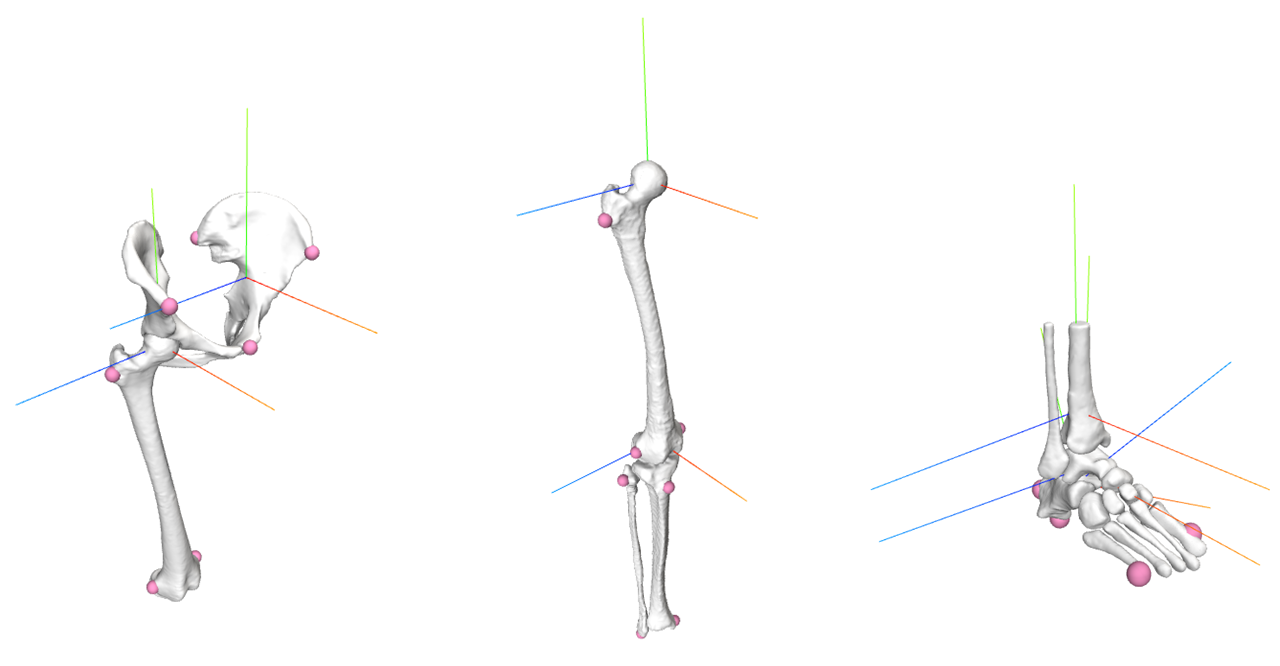
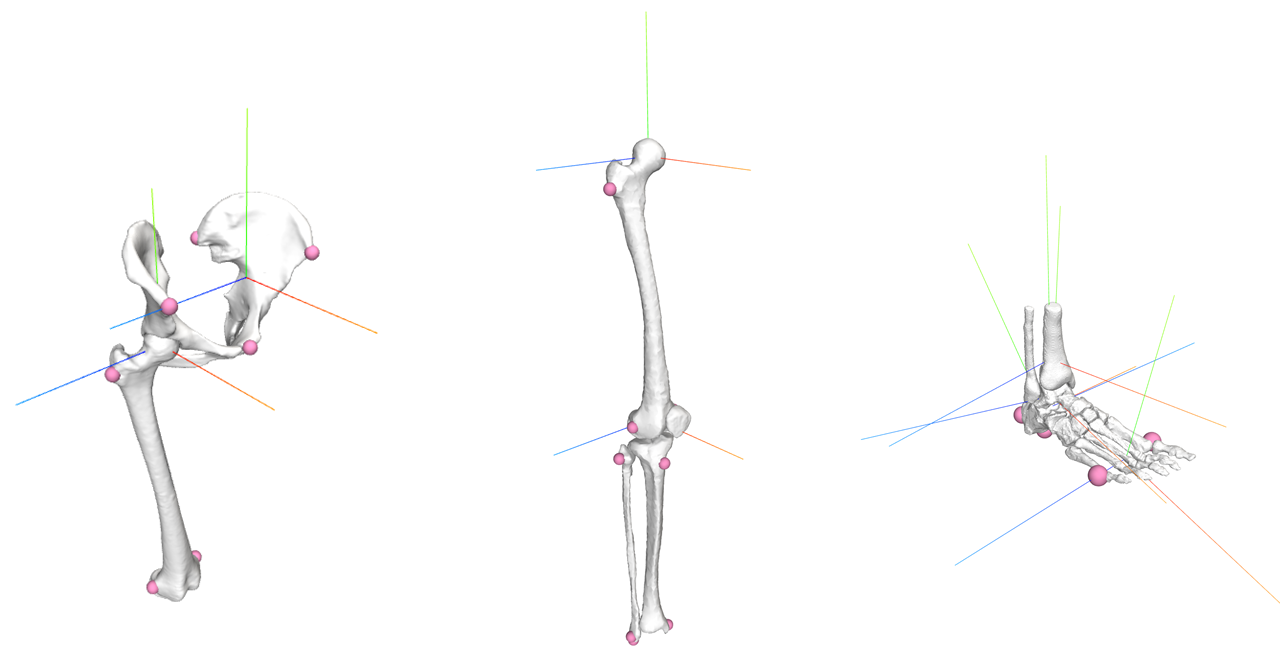
add toes joint and upd readme image

diff --git a/STAPLE/algorithms/STAPLE_toes.m b/STAPLE/algorithms/STAPLE_toes.m
@@ -1,0 +1,59 @@
+%-------------------------------------------------------------------------%
+%  Author:   Luca Modenese 
+%  Copyright 2020 Luca Modenese 
+%-------------------------------------------------------------------------%
+function [CS, JCS, ToesBL] = STAPLE_toes(toesTri, side_raw, result_plots,  debug_plots, in_mm)
+
+% results/debug plot default
+if nargin<3;     result_plots =1;  end
+if nargin<4;     debug_plots = 0;  end
+if nargin<5;     in_mm = 1;        end
+if in_mm == 1;   dim_fact = 0.001; else;  dim_fact = 1; end
+
+% get sign correspondent to body side
+[sign_side, side_low] = bodySide2Sign(side_raw);
+
+% joint names
+toes_name     = ['mtp_', side_low];
+
+% inform user about settings
+disp('---------------------')
+disp('   STAPLE - TOES     '); 
+disp('---------------------')
+disp(['* Body Side   : ', upper(side_low)]);
+disp(['* Fit Method  : ', 'N/A']);
+disp(['* Result Plots: ', convertBoolean2OnOff(result_plots)]);
+disp(['* Debug  Plots: ', convertBoolean2OnOff(debug_plots)]);
+disp(['* Triang Units: ', 'mm']);
+disp('---------------------')
+disp('Initializing method...')
+
+% 1. Indentify initial CS of the foot
+% Get eigen vectors V_all of the Talus 3D geometry and volumetric center
+[ V_all, CenterVol ] = TriInertiaPpties( toesTri );
+
+% THIS IS USED IN jointDefinitions_Modenese2018.m
+CS.V = V_all;
+CS.Origin = CenterVol;
+
+% define toes joint
+% JCS.(toes_name).Origin = ;
+% JCS.(toes_name).V = ;
+% JCS.(toes_name).parent_location = ;
+% JCS.(toes_name).parent_orientation = );
+JCS.(toes_name) = [];
+ToesBL = [];
+
+if result_plots == 1
+    figure('Name', ['STAPLE | bone: toes | side: ', side_low])
+    % plot the calcn triangulation
+    plotTriangLight(toesTri, CS, 0)
+    % Plot the inertia Axis & Volumic center
+%     quickPlotRefSystem(JCS.(toes_name))
+    
+    % plot markers and labels
+%     plotBoneLandmarks(ToesBL, label_switch)   
+
+end
+
+end

diff --git a/STAPLE/geometry/processTriGeomBoneSet.m b/STAPLE/geometry/processTriGeomBoneSet.m
@@ -92,11 +92,12 @@ if nargin<7; debug_plots = 0;  end
 if nargin<8; in_mm = 1; end
 
 % names of the segments
-femur_name = ['femur_', side];
-tibia_name = ['tibia_', side];
+femur_name   = ['femur_', side];
+tibia_name   = ['tibia_', side];
 patella_name = ['patella_', side];
-talus_name = ['talus_', side];
-calcn_name = ['calcn_', side];
+talus_name   = ['talus_', side];
+calcn_name   = ['calcn_', side];
+toes_name    = ['toes_', side];
 
 disp('-----------------------------------')
 disp('Processing provided bone geometries')
@@ -112,6 +113,7 @@ if isfield(triGeomBoneSet, tibia_name);disp( ['  tibia  : ', algo_tibia]);  end
 if isfield(triGeomBoneSet,patella_name);disp(['  patella: ', algo_patella]);end
 if isfield(triGeomBoneSet,talus_name); disp( ['  talus  : ', 'STAPLE']);    end
 if isfield(triGeomBoneSet,calcn_name); disp( ['  foot   : ', 'STAPLE']);    end
+if isfield(triGeomBoneSet,toes_name);  disp( ['  toes   : ', 'N/A']);    end
 
 % ---- PELVIS -----
 if isfield(triGeomBoneSet,'pelvis')
@@ -208,6 +210,12 @@ end
 if isfield(triGeomBoneSet,calcn_name)
     [CS.(calcn_name), JCS.(calcn_name), BL.(calcn_name)] =...
         STAPLE_foot(triGeomBoneSet.(calcn_name), side, result_plots,  debug_plots, in_mm);
+end
+
+%---- TOES -----
+if isfield(triGeomBoneSet,toes_name)
+    [CS.(toes_name), JCS.(toes_name), BL.(toes_name)] =...
+        STAPLE_toes(triGeomBoneSet.(toes_name), side, result_plots,  debug_plots, in_mm);   
 end
 
 end

diff --git a/Example_ankle_model.m b/Example_ankle_model.m
@@ -52,7 +52,7 @@ for n_side = 1:2
     logConsolePrintout('on', log_file);
         
     % cell array with the name of the bone geometries to process
-    bones_list = {['tibia_', cur_side], ['talus_', cur_side],['calcn_', cur_side]};
+    bones_list = {['tibia_', cur_side], ['talus_', cur_side],['calcn_', cur_side], ['toes_', cur_side]};
     
     % tibia and knee names including side
     tibia_name = bones_list{1};

diff --git a/STAPLE/algorithms/STAPLE_foot.m b/STAPLE/algorithms/STAPLE_foot.m
@@ -25,7 +25,7 @@ disp('---------------------')
 disp('   STAPLE - FOOT     '); 
 disp('---------------------')
 disp(['* Body Side   : ', upper(side_low)]);
-disp(['* Fit Method  : ', 'sphere & cylinder']);
+disp(['* Method      : ', 'convex hull']);
 disp(['* Result Plots: ', convertBoolean2OnOff(result_plots)]);
 disp(['* Debug  Plots: ', convertBoolean2OnOff(debug_plots)]);
 disp(['* Triang Units: ', 'mm']);
